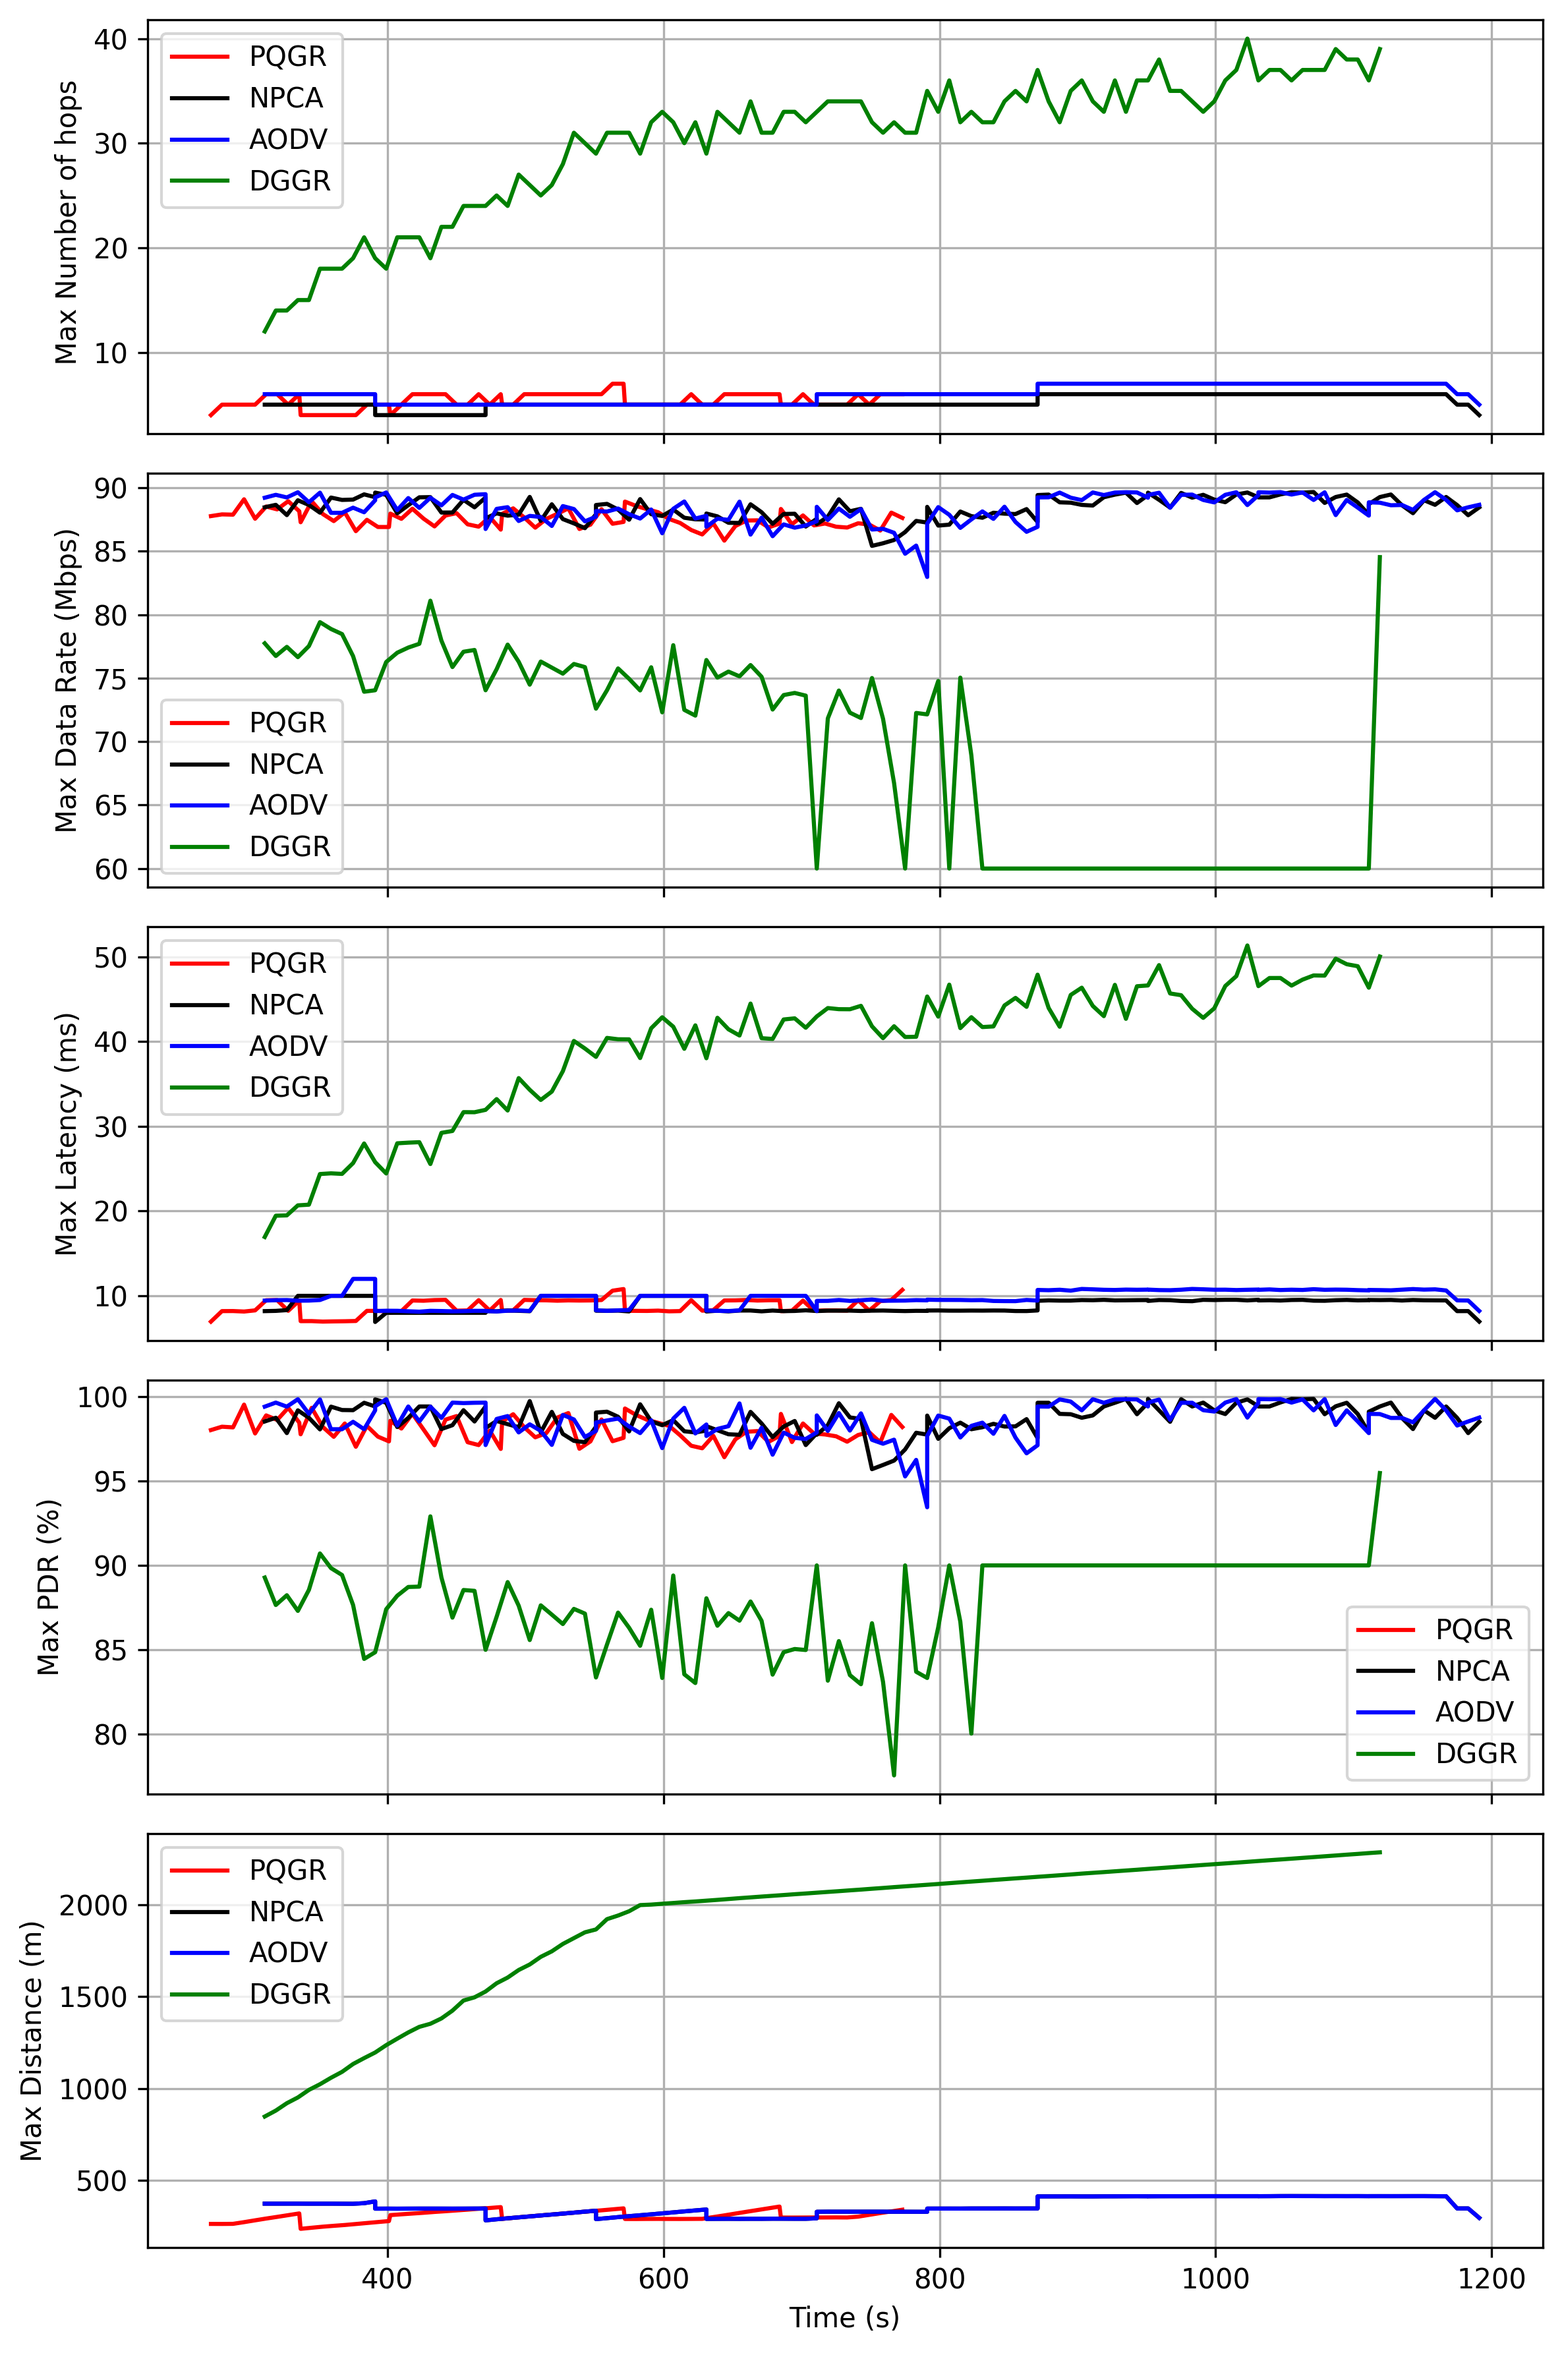
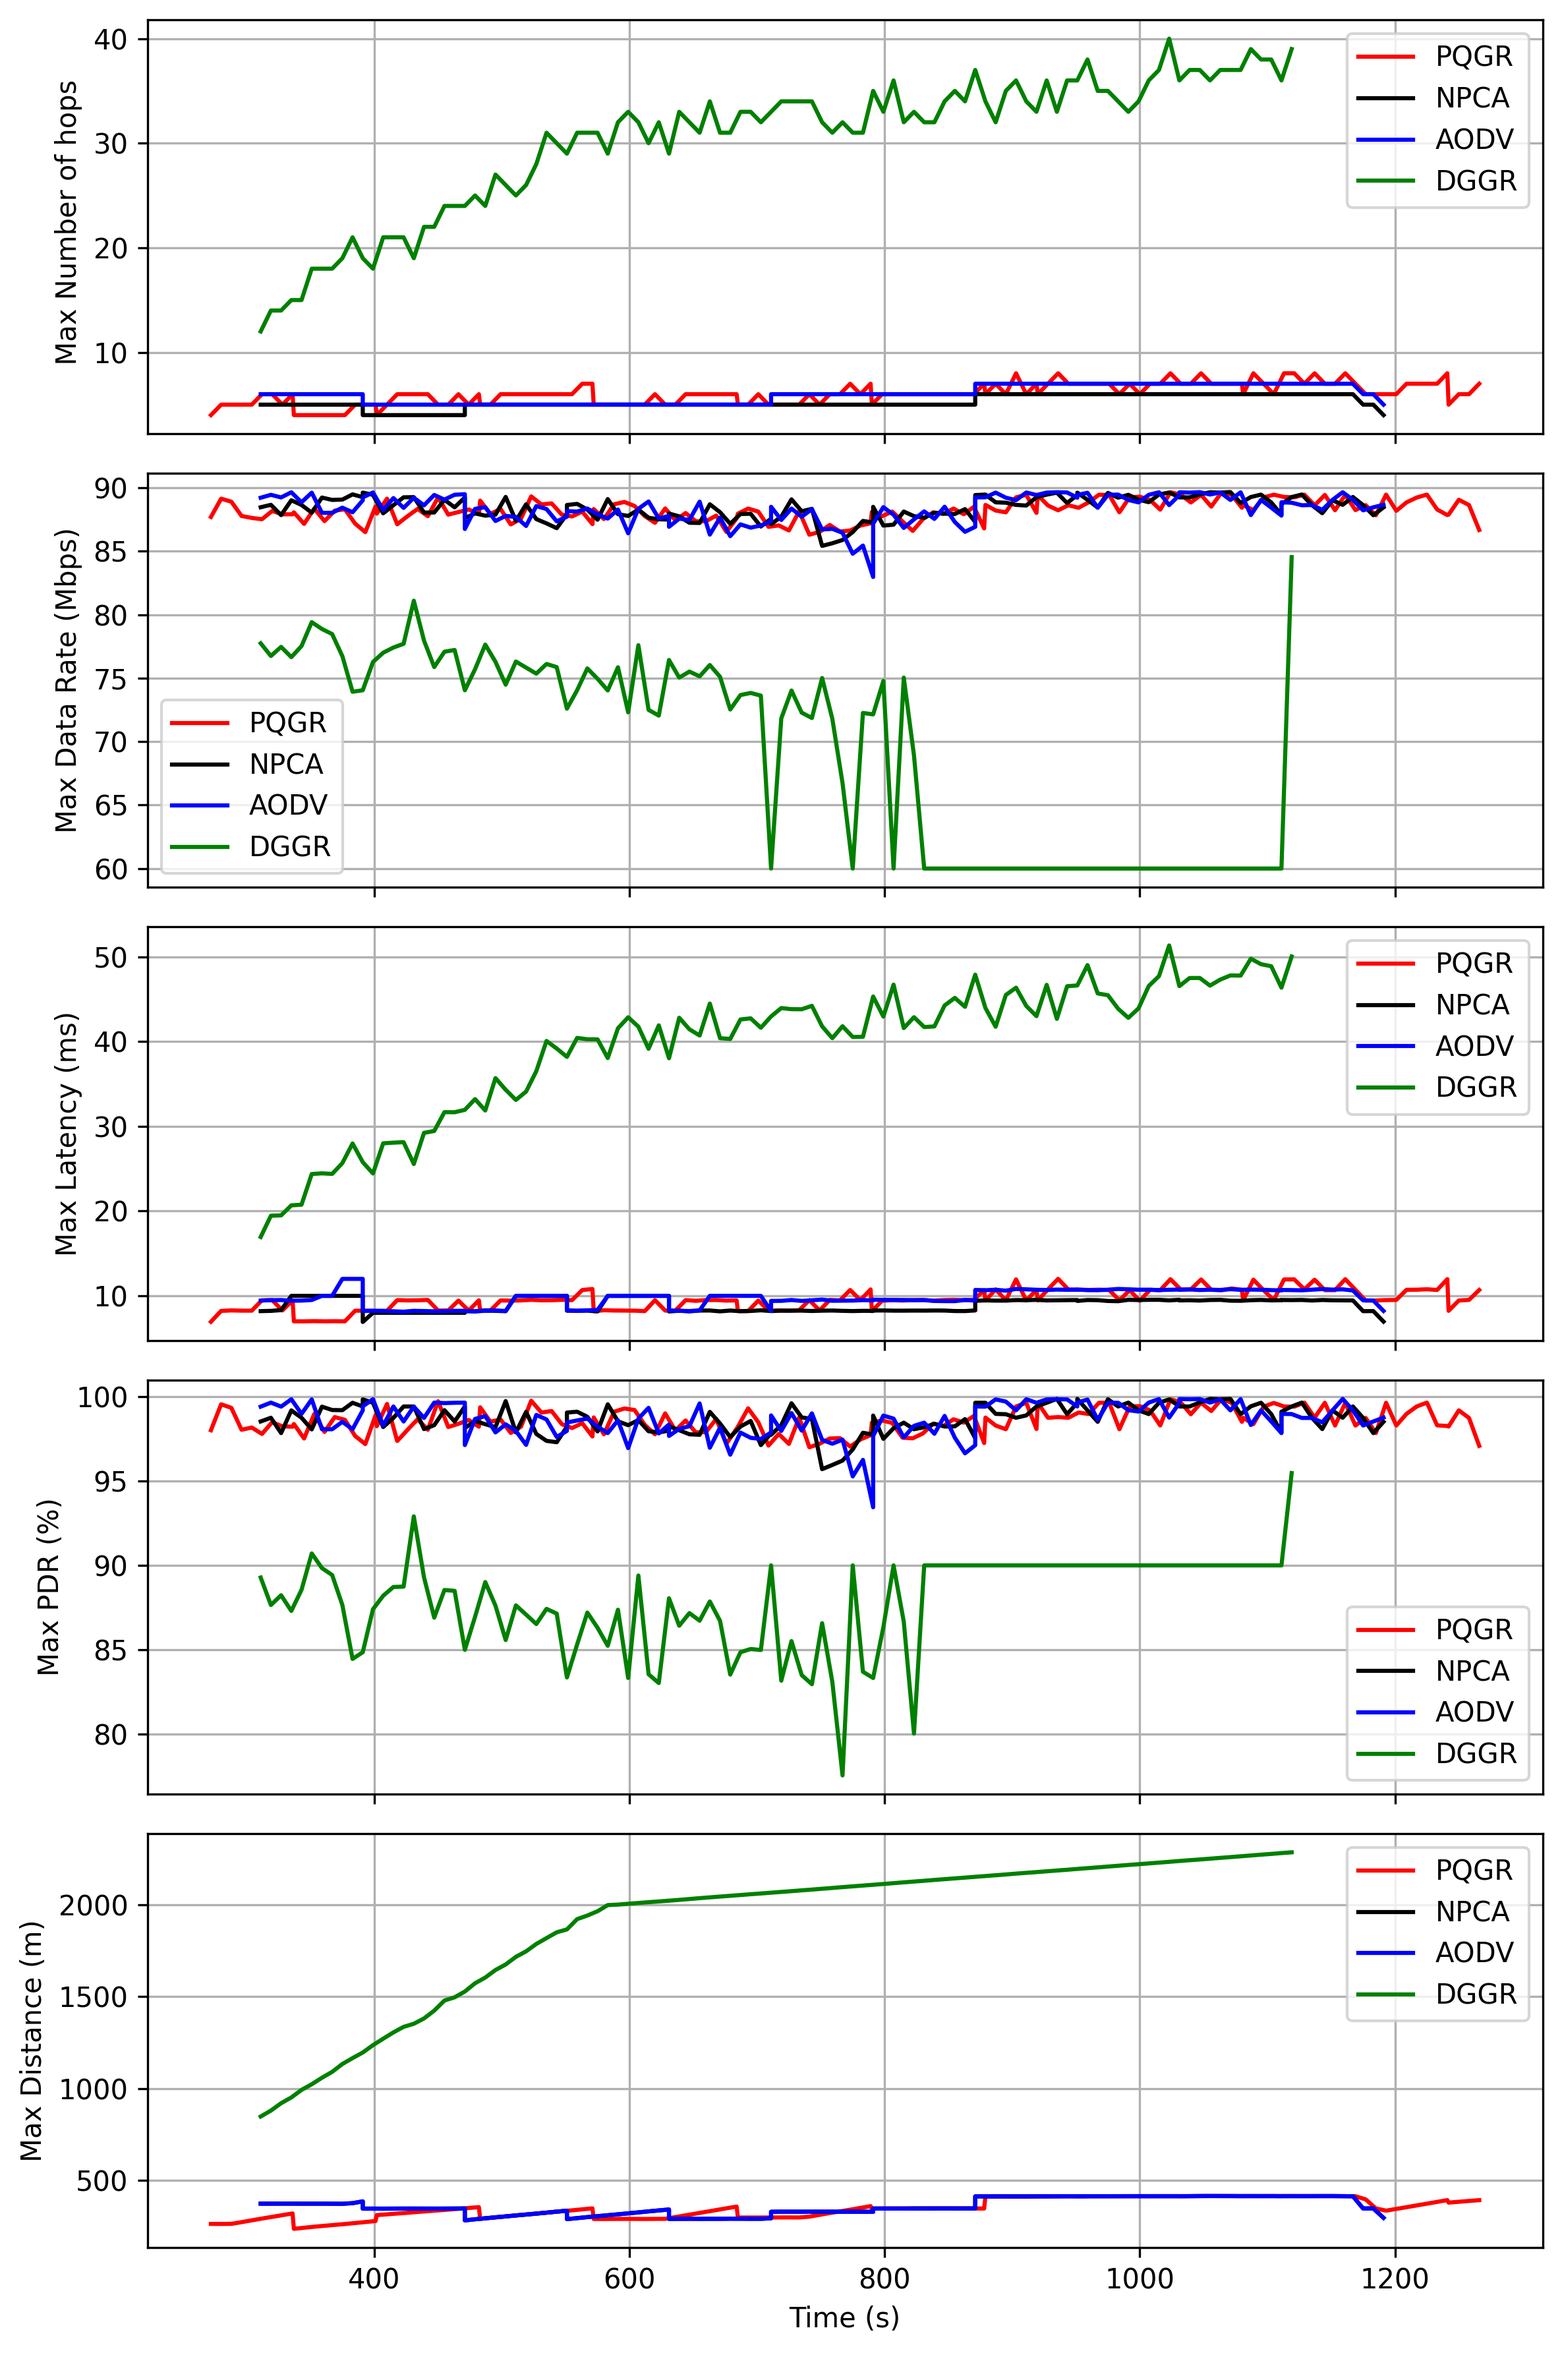
usparse update

diff --git a/PQGR-Experiment/PlotFileExperimentComparasion.py b/PQGR-Experiment/PlotFileExperimentComparasion.py
@@ -2,16 +2,16 @@ import matplotlib.pyplot as plt
 import os
 
 # Specify the path to your text file
-file_path4 = r'ExperimentFiles\DGGR\highwayDense_DGGR_Result.csv'
-file_path2 = r'ExperimentFiles\NPCA\highwayDense_NPCA_Result.csv'
-file_path3 = r'ExperimentFiles\AODV\highwayDense_AODV_Result.csv'
-file_path1 = r'ExperimentFiles\PQGR\highwayDense_PQGR_Result.csv'
+file_path4 = r'ExperimentFiles\DGGR\highwayUsparse_DGGR_Result.csv'
+file_path2 = r'ExperimentFiles\NPCA\highwayUsparse_NPCA_Result.csv'
+file_path3 = r'ExperimentFiles\AODV\highwayUsparse_AODV_Result.csv'
+file_path1 = r'ExperimentFiles\PQGR\highwayUsparse_PQGR_Result.csv'
 
 
 subfolder = 'Comparison'
-plot_png_nameAvr = f'DenseAvrComparison.png'
-plot_png_nameMin = f'DenseMinComparison.png'
-plot_png_nameMax = f'DenseMaxComparison.png'
+plot_png_nameAvr = f'UsparseAvrComparison.png'
+plot_png_nameMin = f'UsparseMinComparison.png'
+plot_png_nameMax = f'UsparseMaxComparison.png'
 
 # Create the name for the plot PNG
 # Initialize empty lists to store data

diff --git a/PQGR-Experiment/PlotFileExperiment.py b/PQGR-Experiment/PlotFileExperiment.py
@@ -2,8 +2,8 @@ import matplotlib.pyplot as plt
 import os
 
 # Specify the path to your text file
-file_path = r'ExperimentFiles\NPCA\highwayUsparse_NPCA_Result.csv'
-subfolder = 'NPCA'
+file_path = r'ExperimentFiles\PQGR\highwayUsparse_PQGR_Result.csv'
+subfolder = 'PQGR'
 
 # Extract the base name of the CSV file without the extension
 base_name = os.path.splitext(os.path.basename(file_path))[0]
